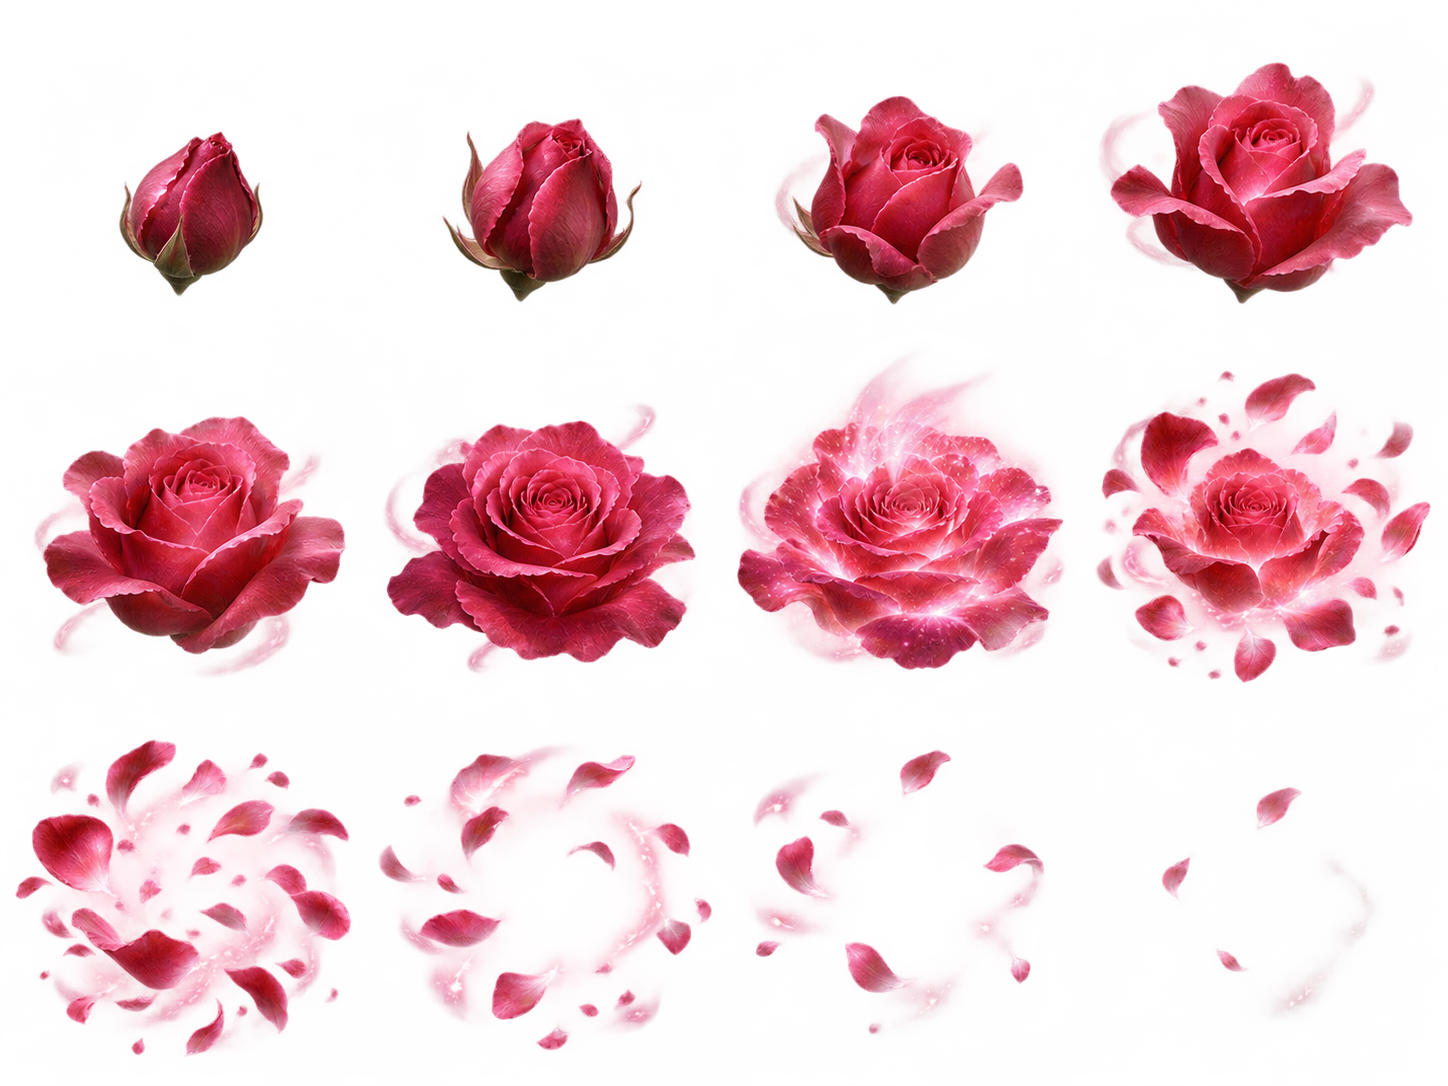
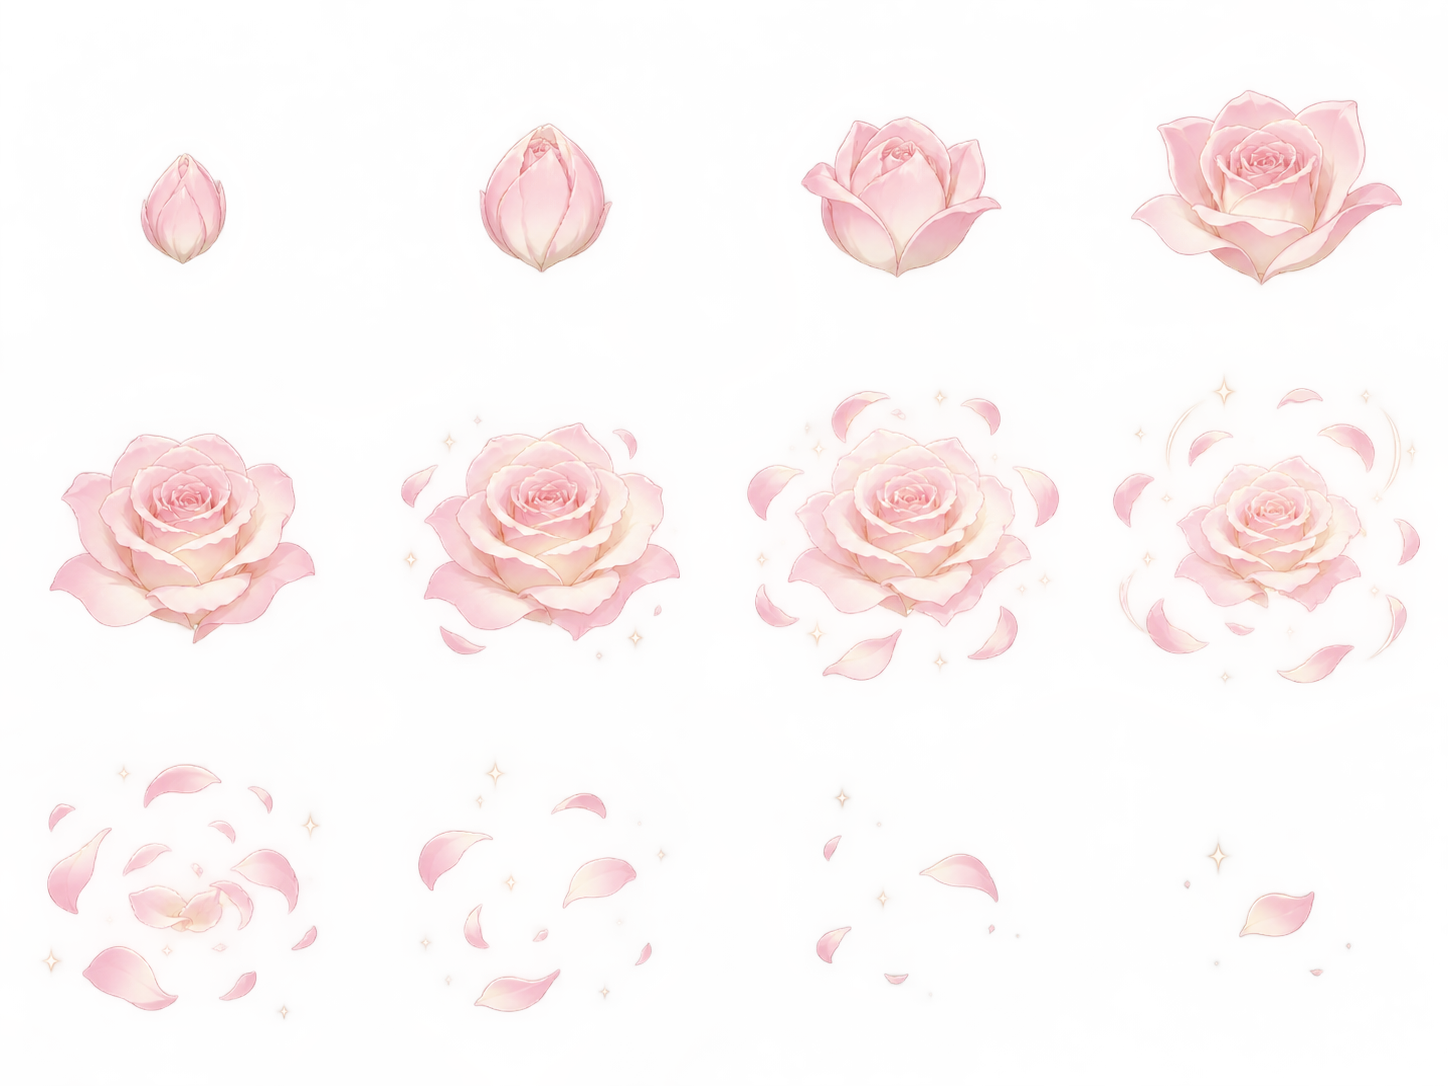
Ultimates: paler anime effects in place of the realistic ones
The ten sheets are drawn again with gpt-6.2-astra as cel-shaded pastel anime spell effects (pale rose and white-gold flames, lavender glass, pale-blue ink, cream dust, lilac wisps, pastel petals and rose); the particles, glows, edges, bar and banner colours are paler too, and the banner sits clear of her speech bubble. The realistic prompt stays in the tool, unused.

diff --git a/app/src/main/java/com/coral/calculator/RunUltimateFx.java b/app/src/main/java/com/coral/calculator/RunUltimateFx.java
@@ -86,16 +86,16 @@ final class RunUltimateFx {
         float beat = .5f + .5f * (float) Math.sin(clock * (which == RunUltimates.BERSERK ? 14 : 5));
         switch (which) {
             case RunUltimates.BERSERK:
-                glow(canvas, x, y, tall * (.9f + .1f * beat), 0xFFFF5A1A, .45f);
+                glow(canvas, x, y, tall * (.9f + .1f * beat), 0xFFFFB8A0, .35f);
                 break;
             case RunUltimates.STILL:
-                glow(canvas, x, y, tall * .85f, 0xFFB0D0FF, .28f);
+                glow(canvas, x, y, tall * .85f, 0xFFD8E4FF, .24f);
                 break;
             case RunUltimates.TIDE:
-                glow(canvas, x, y, tall * 1.0f, 0xFF27348F, .5f);
+                glow(canvas, x, y, tall * 1.0f, 0xFF9DB4F0, .4f);
                 break;
             case RunUltimates.TITAN:
-                glow(canvas, x, y, tall * .9f, colour, .35f);
+                glow(canvas, x, y, tall * .9f, colour, .28f);
                 float feet = y + tall * .45f;
                 LINE.setColor(alpha(colour, .7f));
                 for (int wave = 0; wave < 2; wave++) {
@@ -107,10 +107,10 @@ final class RunUltimateFx {
                 }
                 break;
             case RunUltimates.LEGION:
-                glow(canvas, x, y, tall * .8f, colour, .3f);
+                glow(canvas, x, y, tall * .8f, colour, .24f);
                 break;
             default:
-                glow(canvas, x, y, tall * .9f, colour, .35f);
+                glow(canvas, x, y, tall * .9f, colour, .28f);
         }
     }
 
@@ -219,26 +219,26 @@ final class RunUltimateFx {
             switch (KIND[at]) {
                 case EMBER:
                     // A hot point with a trail below it: white-yellow at its heart, red as it goes out.
-                    glow(canvas, x, y, tile * .16f, 0xFFFF7A20, .7f * t);
-                    FILL.setColor(t > .5f ? 0xFFFFE9A0 : 0xFFFF6A1A);
+                    glow(canvas, x, y, tile * .16f, 0xFFFFB8A8, .6f * t);
+                    FILL.setColor(t > .5f ? 0xFFFFF6DC : 0xFFFFA9A0);
                     FILL.setAlpha(Math.round(255 * Math.min(1, t * 2)));
                     canvas.drawCircle(x, y, tile * .035f * (.5f + t), FILL);
                     break;
                 case SAND:
-                    FILL.setColor(0xFFF4DC9A);
+                    FILL.setColor(0xFFFFF1D2);
                     FILL.setAlpha(Math.round(220 * Math.min(1, Math.min(t * 3, (1 - t) * 6))));
                     canvas.drawCircle(x, y, tile * .03f, FILL);
                     break;
                 case DROP:
-                    FILL.setColor(0xFF161B4A);
+                    FILL.setColor(0xFFA9C0F2);
                     FILL.setAlpha(Math.round(255 * Math.min(1, t * 3)));
                     canvas.drawCircle(x, y, tile * .07f, FILL);
-                    FILL.setColor(0xFF9EE8FF);
+                    FILL.setColor(0xFFFFFFFF);
                     FILL.setAlpha(Math.round(200 * Math.min(1, t * 3)));
                     canvas.drawCircle(x - tile * .022f, y - tile * .025f, tile * .02f, FILL);
                     break;
                 case PEBBLE:
-                    FILL.setColor(0xFF7A6A58);
+                    FILL.setColor(0xFFD2C4B2);
                     FILL.setAlpha(Math.round(255 * Math.min(1, t * 3)));
                     canvas.drawRect(x - tile * .05f, y - tile * .05f, x + tile * .05f, y + tile * .05f, FILL);
                     break;
@@ -247,7 +247,7 @@ final class RunUltimateFx {
                     canvas.save();
                     canvas.rotate((float) Math.toDegrees(SPIN[at]), x, y);
                     BOX.set(x - tile * .1f, y - tile * .055f, x + tile * .1f, y + tile * .055f);
-                    FILL.setColor(at % 3 == 0 ? 0xFFFFD2E0 : at % 3 == 1 ? 0xFFFF7FAF : 0xFFE2406F);
+                    FILL.setColor(at % 3 == 0 ? 0xFFFFEAF1 : at % 3 == 1 ? 0xFFFFC0D4 : 0xFFF29CB8);
                     FILL.setAlpha(Math.round(235 * Math.min(1, Math.min(t * 3, (1 - t) * 8 + .3f))));
                     canvas.drawOval(BOX, FILL);
                     canvas.restore();
@@ -301,11 +301,11 @@ final class RunUltimateFx {
             float beat = .5f + .5f * (float) Math.sin(clock * (which == RunUltimates.BERSERK ? 12 : 3));
             switch (which) {
                 case RunUltimates.BERSERK:
-                    edge(canvas, width, height, 0xFFE81408, .5f + .2f * beat);
+                    edge(canvas, width, height, 0xFFFF9AA8, .38f + .15f * beat);
                     break;
                 case RunUltimates.STILL:
                     canvas.drawColor(alpha(0xFFC8DCFF, .08f));
-                    edge(canvas, width, height, 0xFF0A1030, .5f);
+                    edge(canvas, width, height, 0xFF48567E, .4f);
                     float r = Math.min(width, height) * .38f, cx = width / 2f, cy = height / 2f;
                     LINE.setColor(alpha(0xFFFFFFFF, .16f));
                     LINE.setStrokeWidth(r * .03f);
@@ -320,16 +320,16 @@ final class RunUltimateFx {
                     canvas.drawLine(cx, cy, cx + (float) Math.cos(hand / 12) * r * .5f, cy + (float) Math.sin(hand / 12) * r * .5f, LINE);
                     break;
                 case RunUltimates.TIDE:
-                    edge(canvas, width, height, 0xFF1B2152, .6f);
+                    edge(canvas, width, height, 0xFF6C84C8, .4f);
                     break;
                 case RunUltimates.TITAN:
-                    edge(canvas, width, height, 0xFFFFC433, .25f);
+                    edge(canvas, width, height, 0xFFFFD98A, .22f);
                     break;
                 case RunUltimates.LEGION:
-                    edge(canvas, width, height, 0xFF9A6AE8, .35f);
+                    edge(canvas, width, height, 0xFFC4A8F0, .3f);
                     break;
                 default:
-                    edge(canvas, width, height, 0xFFFF6FA0, .35f + .1f * beat);
+                    edge(canvas, width, height, 0xFFFFA8C4, .3f + .1f * beat);
             }
             bar(canvas, run, width, height, which);
         }
@@ -339,7 +339,7 @@ final class RunUltimateFx {
     /** The name of the ultimate that has begun, on a banner of its own: dark-backed, in a colour with a white edge, large, away from anything she says. It slides in, stays, and fades. */
     private static void banner(Canvas canvas, int width, int height, int which, float age) {
         float in = Math.min(1, age / .18f), out = Math.min(1, (1.9f - age) / .4f), show = Math.max(0, Math.min(in, out));
-        float tall = height * .13f, wide = Math.min(width * .5f, tall * 6.2f), cx = width * .56f, top = height * .25f - (1 - in) * tall * .5f;
+        float tall = height * .13f, wide = Math.min(width * .5f, tall * 6.2f), cx = width * .65f, top = height * .22f - (1 - in) * tall * .5f;
         float grow = .9f + .1f * in;
         FILL.setStyle(Paint.Style.FILL);
         FILL.setColor(alpha(0xFF0A0610, .78f * show));
@@ -357,8 +357,7 @@ final class RunUltimateFx {
         WORDS.setColor(alpha(0xFF000000, show));
         canvas.drawText(RunUltimates.SHOUT[which], cx, top + tall * .66f, WORDS);
         WORDS.setStyle(Paint.Style.FILL);
-        WORDS.setColor(alpha(which == RunUltimates.STILL ? 0xFFDDEBFF : which == RunUltimates.TIDE ? 0xFF8FB0FF : RunUltimates.COLOURS[which] | 0xFF000000, show));
-        if (which == RunUltimates.BERSERK) WORDS.setColor(alpha(0xFFFF5A3C, show));
+        WORDS.setColor(alpha(RunUltimates.COLOURS[which] | 0xFF000000, show));
         canvas.drawText(RunUltimates.SHOUT[which], cx, top + tall * .66f, WORDS);
     }
 

diff --git a/tools/make_vfx.py b/tools/make_vfx.py
@@ -114,7 +114,7 @@ COMMON_REAL = (" Fully transparent background (a PNG with an alpha channel) in e
                "colour gradients, motion blur and fine particles, not a cartoon and not a flat vector shape. Each frame is centred in its own cell and well inside it, never touching the "
                "cell's edge or crossing into another cell.")
 # (Drawn with a flat grey veil over the cell that the model could not leave out: cleaned as a glow is, though it is drawn the normal way.)
-VEILED = {"titan_stride"}
+VEILED = {"titan_stride", "petal_storm", "rose_burst", "legion_wisps"}
 REAL = {"rampage_body", "rampage_crown", "rampage_burst", "clock_shards", "time_sand", "ink_wave", "titan_stride", "legion_wisps", "petal_storm", "rose_burst"}
 
 COMMON = (" Fully transparent background (a PNG with an alpha channel) in every cell: no backdrop colour, no black or grey box, no ground, no border lines between the cells, no text, no labels, no numbers, no characters, no "
@@ -122,11 +122,44 @@ COMMON = (" Fully transparent background (a PNG with an alpha channel) in every 
           "sparks and smear lines. Each frame is centred in its own cell and well inside it, never touching the cell's edge or crossing into another cell.")
 
 
+# The ultimates' effects as they are used now: paler, as the anime's own spell effects (cel-shaded, soft gradients, pastel), to sit with the game's painterly pastel art.
+# (The realistic ones above, COMMON_REAL and REAL, are kept in the tool and not used: put a name in REAL_STYLE to draw it that way again.)
+REAL_STYLE = set()
+COMMON_PALE = (" Fully transparent background (a PNG with an alpha channel) in every cell: no backdrop colour, no black or grey box, no ground, no haze, no fog, no border lines between the cells, no text, "
+               "no labels, no numbers, no characters, no people. Pale, pastel anime spell effects as in a TV anime: cel-shaded with soft gradients, clean flowing shapes, thin light outlines, "
+               "gentle glow, low saturation and low contrast, light airy colours (never dark, never heavy, never photographic or photoreal), still dynamic and spectacular. Each frame is "
+               "centred in its own cell and well inside it, never touching the cell's edge or crossing into another cell.")
+PALE_WHAT = {
+    "rampage_body": "pale anime flames that loop, wrapping a hollow column the height of a standing person (narrow and tall): cel-shaded flame tongues in pale rose-pink, cream and white-gold with "
+                    "thin light outlines and soft glows, curling up both sides and over the top, the middle of the column left empty and clear so a figure can stand in it, a few small light "
+                    "sparks rising; drawn so that the last frame leads smoothly into the first",
+    "rampage_crown": "a crown of pale anime flames that loops, in a flat ring over the top of a head: a ring of tall wavering cel-shaded tongues in pale rose, pink and white-gold with soft glows "
+                     "and a few small sparks, light and airy, no black and no dark smoke; drawn so that the last frame leads smoothly into the first",
+    "rampage_burst": "an eruption of pale anime fire: a ring of cel-shaded flame bursting outward from the middle in one great circle, a white-gold flash at the start, graceful pale rose, pink and "
+                     "cream flame tongues shooting up and out, a thin shockwave ring and light sparks; it erupts, flares, and fades into floating sparks",
+    "clock_shards": "a clock shattered in mid-air that loops: a round pale clock face broken into curved, sharp shards of soft lavender and white glass that float slowly apart and turn round a "
+                    "hollow middle, with thin light cracks between them, thin pale-gold clock hands and tiny glints, cel-shaded with soft gradients; drawn so that the last frame leads smoothly into the first",
+    "time_sand": "a spiral of pale sand that loops: fine cream and pale-gold grains and tiny glowing sparkles drifting in a slow rising spiral round an empty middle, with a few soft light "
+                 "streaks, anime style; drawn so that the last frame leads smoothly into the first",
+    "ink_wave": "a wave of translucent pale-blue ink that loops, rushing to the right: a cel-shaded anime wave in light sky blue and pale periwinkle with a curling crest, white highlights and "
+                "foam-like swirls along its rim, thin pale tendrils and round droplets flying ahead of it; light and see-through, not dark; drawn so that the last frame leads smoothly into the first",
+    "titan_stride": "a heavy footstep landing, in anime style: two flat expanding rings of cream and pale-beige dust bursting out along the ground to both sides, a soft cel-shaded puff of cream "
+                    "dust rolling up, thin pale cracks in the ground and a few small light stones flying; it slams down, spreads, and thins out. Only the dust and stones are drawn: no grey haze, no veil",
+    "legion_wisps": "ghostly afterimages that loop, in anime style: translucent pale lilac and white flowing ribbons of spirit light in the shape of trailing, blurred human silhouettes, drifting up and "
+                    "to the left like soft smoke, cel-shaded with gentle glowing edges and tiny sparkles; drawn so that the last frame leads smoothly into the first",
+    "petal_storm": "a storm of pastel petals that loops: dozens of pale pink, cream and white rose petals swirling in a tall loose spiral round an empty middle, cel-shaded with thin light outlines, "
+                   "and a few small golden sparkles; drawn so that the last frame leads smoothly into the first",
+    "rose_burst": "a pastel rose blooming, in anime style: a closed pale pink rose bud in the middle opens at once into a full soft pink and cream rose with thin light outlines, petals bursting "
+                  "outward in a ring with sparkles and a rising pale glow; it opens, flares, and the petals drift away",
+}
+
+
 def prompt(name):
-    what = EFFECTS[name][0]
+    what = PALE_WHAT[name] if name in PALE_WHAT and name not in REAL_STYLE else EFFECTS[name][0]
+    common = COMMON_PALE if name in PALE_WHAT and name not in REAL_STYLE else COMMON_REAL if name in REAL else COMMON
     return (f"A sprite sheet of a game visual effect: {FRAMES} animation frames of {what}. The frames are laid out in a grid of {COLS} columns and {ROWS} rows (left to right, "
             f"top to bottom), one frame in each cell, in order from the first instant to the last, so that played quickly they make one smooth animation, each frame a little "
-            f"further along than the one before. All {FRAMES} cells are filled.{COMMON_REAL if name in REAL else COMMON}")
+            f"further along than the one before. All {FRAMES} cells are filled.{common}")
 
 
 def make_jobs(names, redo):

diff --git a/app/src/main/java/com/coral/calculator/RunUltimates.java b/app/src/main/java/com/coral/calculator/RunUltimates.java
@@ -71,7 +71,7 @@ final class RunUltimates {
     }
     /** The word she shows as it begins (and the colour of its light, lit by each in its own way). */
     static final String[] SHOUT = {"", "RAMPAGE!", "TIME STOPS", "TIDE OF INK", "COLOSSUS!", "LEGION!", "ROSE BLOOM"};
-    static final int[] COLOURS = {0, 0xFFE0362F, 0xFFB9C8D8, 0xFF27348F, 0xFFFFC433, 0xFF9A6AE8, 0xFFFF6FA0};
+    static final int[] COLOURS = {0, 0xFFFF8FA0, 0xFFC4D2F0, 0xFF8FB0F0, 0xFFFFD27A, 0xFFB89AF0, 0xFFFFA0C0};
     /** The sound each begins with, and ends with ({@link RunAudio}). */
     static final String[] START_SOUND = {"", "ult_berserk", "ult_time", "ult_tide", "ult_titan", "ult_legion", "ult_bloom"};
     static final String[] END_SOUND = {"", "ult_berserk_end", "ult_time_end", "ult_tide_end", "ult_titan_end", "ult_legion_end", "ult_bloom_end"};
